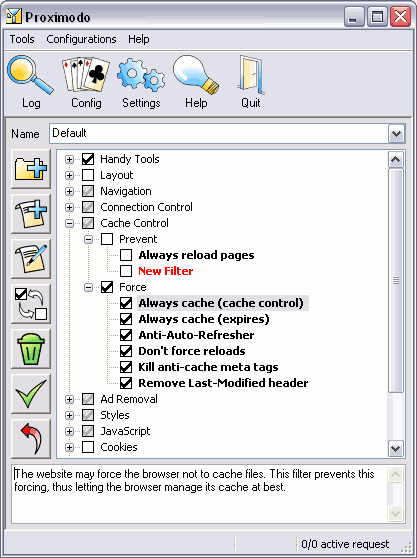
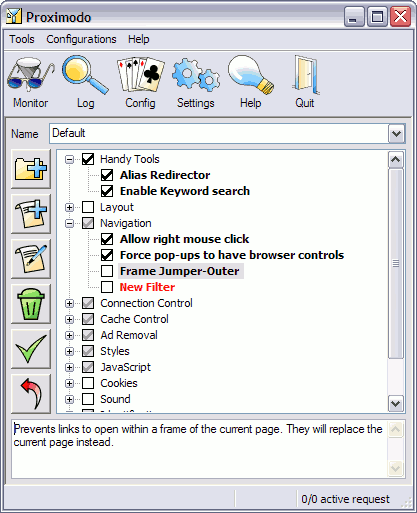
Updated help files for new monitor screen

Changed region(s): [[0.0, 0.0, 0.9976, 0.9981], [0.9353, 0.6862, 0.9664, 0.7173], [0.9353, 0.499, 0.9664, 0.5302]]

diff --git a/src/distrib/help/en/settings.html b/src/distrib/help/en/settings.html
@@ -30,50 +30,6 @@ the screen or last applied the settings.</p>
 
 <p class="section">Filtering Settings</p>
 
-<p class="option">Filter Outgoing Headers</p>
-
-<p class="explain">If this box is unchecked, outgoing headers (that
-is, headers included in the requests your browser sends to
-websites) will not be affected by filters. If the box is checked,
-headers may be changed / added / deleted by a header filter that
-matches it. Note that Proximodo being a proxy server, it may change
-a few proxy-related headers for its proper functioning, whether the
-box is checked or not.</p>
-
-<p class="option">Filter Incoming Headers</p>
-
-<p class="explain">If this box is unchecked, incoming headers
-(headers that websites send along with html documents and images)
-are not affected by header filters. If the box is checked, headers
-may be changed / added / deleted by header filters in the current
-configuration.</p>
-
-<p class="option">Filter Text</p>
-
-<p class="explain">If this box is unchecked, downloaded html
-documents are left untouched. If checked, the documents go through
-all text filters in the current configuration. Those filters are
-chained, and they may replace bits of text or not. The document's
-content is then sent to the browser for viewing.</p>
-
-<p class="option">Freeze GIF Images</p>
-
-<p class="explain">If this box is checked, animated GIF images will
-be transformed into fixed GIF images. Use this when flashy blinking
-images all over the screen make you dizzy.</p>
-
-<p class="option">Active Configuration</p>
-
-<p class="explain">This is the active configuration for header/text
-processing. A configuration is a set of selected filters that you
-want to use. Proximodo comes with many filters, and you can add
-more, but hopefully they are not all being used at the same time.
-Instead, you can select the filters you want to use and "group"
-them in a configuration. You can create several configurations, so
-that switching from one set to another (for example for a set of
-very unforgiving filters to a more permissive one) comes just to
-changing the value of this setting.</p>
-
 <p class="option">Bypass URL Pattern</p>
 
 <p class="explain">This field contains a pattern for selecting
@@ -96,13 +52,22 @@ all instead of deactivating/reactivating Proximodo filters.</p>
 interface, filter titles and comments. Changes will take effect
 upon next restart (i.e by quitting/reloading Proximodo).</p>
 
-<p class="option">On startup, display</p>
+<p class="option">Show GUI On Start-Up</p>
 
-<p class="explain">Normally, Proximodo puts itself in the 
-background and opens your default browser - this corresponds
-to the &quot;default browser&quot; choice here. You can
-adjust this behaviour so that Proximodo opens both itself
-and the browser, or just itself.</p>
+<p class="explain">By default, Proximodo window opens each
+time Proximodo starts. If you only need the tray icon, uncheck
+this checkbox. You will still be able to open the window, by
+clicking on the icon in the system tray.</p>
+
+<p class="option">Launch This App On Start-Up</p>
+
+<p class="explain">By default, when Proximodo starts, it
+automatically opens a browser window for you. You can change this
+behaviour. Uncheck the checkbox to prevent Proximodo from opening
+anything else. Or change the executable path, to launch another
+program than the default browser (initially set to the browser
+associated with the text/html MIME type). Use the folder button to
+browse your hard drive.</p>
 
 <p class="section">Proxy Settings</p>
 

diff --git a/src/distrib/help/en/monitor.html b/src/distrib/help/en/monitor.html
@@ -1,0 +1,81 @@
+<!DOCTYPE html PUBLIC "-//W3C//DTD HTML 4.01 Transitional//EN">
+<html>
+<head>
+<meta name="generator" content=
+"HTML Tidy for Windows (vers 1st April 2002), see www.w3.org">
+<title>Proximodo - Settings</title>
+<link rel="stylesheet" type="text/css" href="help.css">
+</head>
+<body>
+<center><img src="monitor.png"></center>
+
+<p class="section">Filtering Options</p>
+
+<p class="option">Filter Outgoing Headers</p>
+
+<p class="explain">If this box is unchecked, outgoing headers (that
+is, headers included in the requests your browser sends to
+websites) will not be affected by filters. If the box is checked,
+headers may be changed / added / deleted by a header filter that
+matches it. Note that Proximodo being a proxy server, it may change
+a few proxy-related headers for its proper functioning, whether the
+box is checked or not.</p>
+
+<p class="option">Filter Incoming Headers</p>
+
+<p class="explain">If this box is unchecked, incoming headers
+(headers that websites send along with html documents and images)
+are not affected by header filters. If the box is checked, headers
+may be changed / added / deleted by header filters in the current
+configuration.</p>
+
+<p class="option">Filter Text</p>
+
+<p class="explain">If this box is unchecked, downloaded html
+documents are left untouched. If checked, the documents go through
+all text filters in the current configuration. Those filters are
+chained, and they may replace bits of text or not. The document's
+content is then sent to the browser for viewing.</p>
+
+<p class="option">Freeze GIF Images</p>
+
+<p class="explain">If this box is checked, animated GIF images will
+be transformed into fixed GIF images. Use this when flashy blinking
+images all over the screen make you dizzy.</p>
+
+<p class="option">Active Configuration</p>
+
+<p class="explain">This is the active configuration for header/text
+processing. A configuration is a set of selected filters that you
+want to use. Proximodo comes with many filters, and you can add
+more, but hopefully they are not all being used at the same time.
+Instead, you can select the filters you want to use and "group"
+them in a configuration. You can create several configurations, so
+that switching from one set to another (for example for a set of
+very unforgiving filters to a more permissive one) comes just to
+changing the value of this setting.</p>
+
+<p class="section">Statistics</p>
+
+<p class="option">Running Requests</p>
+
+<p class="explain">This is the number of pages or files being
+currently downloaded from the Internet. When zero, Proximodo is
+idle, even though there may still be open connections
+(persistent connections are used to improve Internet access time).</p>
+
+<p class="option">Open Connections</p>
+
+<p class="explain">This is the number of connections (sockets)
+still alive between browser windows and Proximodo.</p>
+
+<p class="option">Abort Button</p>
+
+<p class="explain">It will close all connections, thus stopping
+downloads. Use it if you want to interrupt a frozen download without
+exiting the browser. Note that Proximodo continues to accept new
+connections, the button does not stop the proxy server.</p>
+
+</body>
+</html>
+

diff --git a/src/distrib/help/en/header.html b/src/distrib/help/en/header.html
@@ -31,6 +31,19 @@ height="112">
 <td>
 <table border="0" cellpadding="0" cellspacing="0">
 <tr>
+<td class="center" height="45"><a href="f_monitor.html" target=
+"_top"><img src="btn7.gif" border="0"></a></td>
+</tr>
+
+<tr>
+<td class="center"><a class="topbar" href="f_monitor.html" target=
+"_top">Monitor</a></td>
+</tr>
+</table>
+</td>
+<td>
+<table border="0" cellpadding="0" cellspacing="0">
+<tr>
 <td class="center" height="45"><a href="f_settings.html" target=
 "_top"><img src="btn1.gif" border="0"></a></td>
 </tr>

diff --git a/src/distrib/help/en/f_monitor.html b/src/distrib/help/en/f_monitor.html
@@ -1,0 +1,14 @@
+<!DOCTYPE html PUBLIC "-//W3C//DTD HTML 4.01 Frameset//EN">
+<html>
+<head>
+<meta name="generator" content=
+"HTML Tidy for Windows (vers 1st April 2002), see www.w3.org">
+<title>Proximodo - Monitor</title>
+<link rel="stylesheet" type="text/css" href="help.css">
+</head>
+<frameset rows="112,*" border="0">
+<frame src="header.html" noresize="noresize">
+<frame src="monitor.html" border="0" name="main">
+</frameset>
+</html>
+

diff --git a/src/distrib/help/en/content.html b/src/distrib/help/en/content.html
@@ -23,6 +23,18 @@ to use it.</p>
 
 <tr>
 <td>
+<p class="option"><a href="f_monitor.html" target=
+"_top">Monitor</a></p>
+</td>
+<td>
+<p>How to use the Monitor screen. The monitor screen contains
+checkboxes to enable/disable general filtering, and statistics
+about current transfers.</p>
+</td>
+</tr>
+
+<tr>
+<td>
 <p class="option"><a href="f_settings.html" target=
 "_top">Settings</a></p>
 </td>
